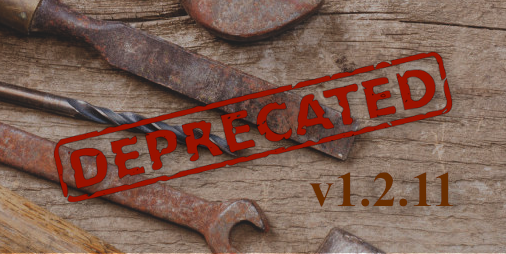
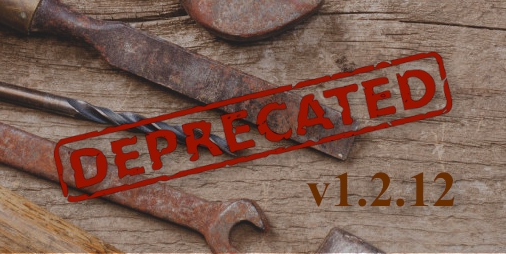
Prepare next version 1.2.12 (unreleased)

Changed region(s): [[0.5929, 0.6614, 0.919, 0.8268]]

diff --git a/deprecated/__init__.py b/deprecated/__init__.py
@@ -7,9 +7,9 @@ Python ``@deprecated`` decorator to deprecate old python classes, functions or m
 
 """
 
-__version__ = "1.2.11"
+__version__ = "1.2.12"
 __author__ = u"Laurent LAPORTE <tantale.solutions@gmail.com>"
-__date__ = "2021-01-17"
+__date__ = "unreleased"
 __credits__ = "(c) Laurent LAPORTE"
 
 from deprecated.classic import deprecated

diff --git a/setup.py b/setup.py
@@ -143,7 +143,7 @@ from setuptools import setup
 
 setup(
     name='Deprecated',
-    version='1.2.11',
+    version='1.2.12',
     url='https://github.com/tantale/deprecated',
     project_urls={
         "Documentation": "https://deprecated.readthedocs.io/en/latest/",

diff --git a/docs/source/conf.py b/docs/source/conf.py
@@ -61,7 +61,7 @@ author = 'Marcos CARDOSO & Laurent LAPORTE'
 # built documents.
 #
 # The full version, including alpha/beta/rc tags.
-release = "1.2.11"
+release = "1.2.12"
 # The short X.Y version.
 version = release.rpartition('.')[0]
 

diff --git a/CHANGELOG.rst b/CHANGELOG.rst
@@ -18,6 +18,12 @@ and this project adheres to `Semantic Versioning <https://semver.org/spec/v2.0.0
       (only in comment or documentation).
 
 
+v1.2.12 (unreleased)
+====================
+
+Bug fix release
+
+
 v1.2.11 (2021-01-17)
 ====================
 
